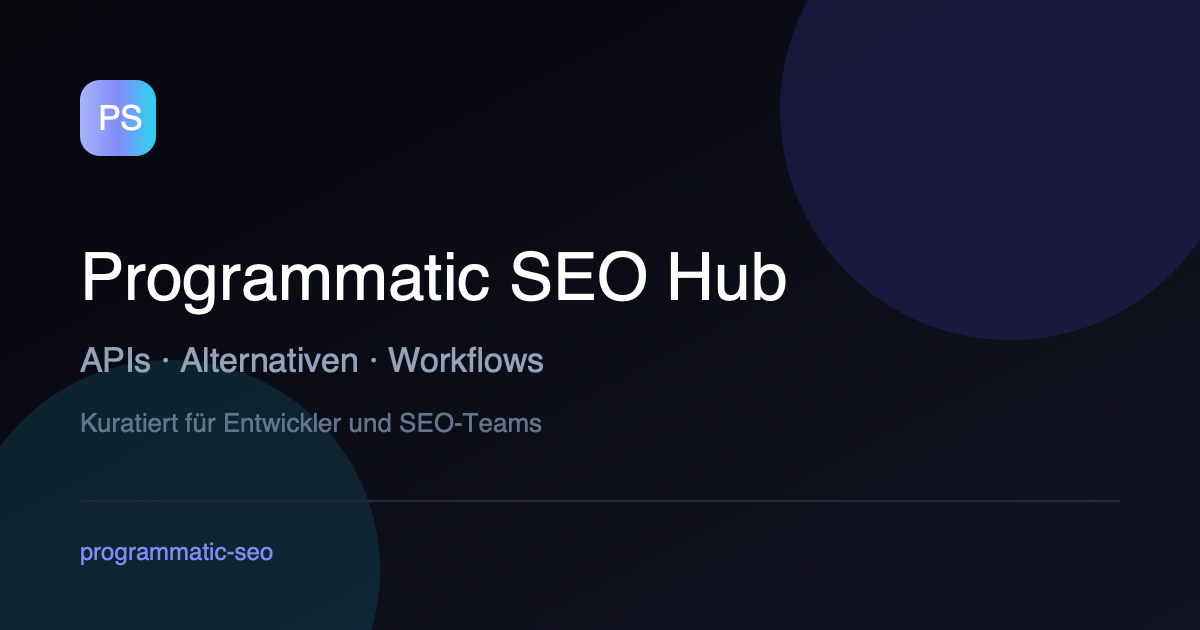
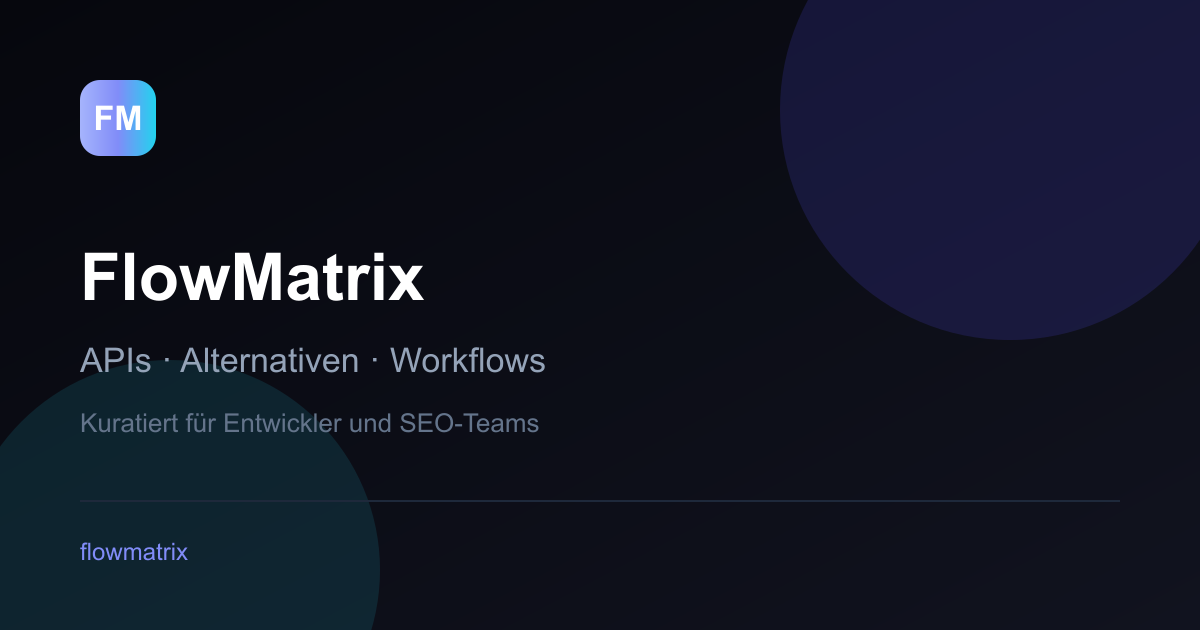
chore: rebrand to FlowMatrix and finalize docs/OG generation

diff --git a/src/i18n/ui.ts b/src/i18n/ui.ts
@@ -66,7 +66,7 @@ export const translations: Record<string, Record<TranslationKey, string>> = {
     "nav.apis": "APIs",
     "nav.alternatives": "Alternatives",
     "nav.workflows": "Workflows",
-    "hero.badge": "Programmatic SEO · curated & current",
+    "hero.badge": "FlowMatrix · curated & current",
     "hero.title1": "The knowledge hub for",
     "hero.title2": "APIs, alternatives and workflows",
     "hero.subtitle":
@@ -106,7 +106,7 @@ export const translations: Record<string, Record<TranslationKey, string>> = {
     "nav.apis": "APIs",
     "nav.alternatives": "Alternativen",
     "nav.workflows": "Workflows",
-    "hero.badge": "Programmatic SEO · kuratiert & aktuell",
+    "hero.badge": "FlowMatrix · kuratiert & aktuell",
     "hero.title1": "Das Wissens-Hub für",
     "hero.title2": "APIs, Alternativen und Workflows",
     "hero.subtitle":
@@ -146,7 +146,7 @@ export const translations: Record<string, Record<TranslationKey, string>> = {
     "nav.apis": "API",
     "nav.alternatives": "Alternatives",
     "nav.workflows": "Workflows",
-    "hero.badge": "Programmatic SEO · sélectionné et à jour",
+    "hero.badge": "FlowMatrix · sélectionné et à jour",
     "hero.title1": "Le hub de connaissances pour",
     "hero.title2": "API, alternatives et workflows",
     "hero.subtitle":
@@ -186,7 +186,7 @@ export const translations: Record<string, Record<TranslationKey, string>> = {
     "nav.apis": "APIs",
     "nav.alternatives": "Alternativas",
     "nav.workflows": "Flujos de trabajo",
-    "hero.badge": "Programmatic SEO · curado y actualizado",
+    "hero.badge": "FlowMatrix · curado y actualizado",
     "hero.title1": "El centro de conocimiento para",
     "hero.title2": "APIs, alternativas y flujos de trabajo",
     "hero.subtitle":
@@ -226,7 +226,7 @@ export const translations: Record<string, Record<TranslationKey, string>> = {
     "nav.apis": "API",
     "nav.alternatives": "Alternative",
     "nav.workflows": "Workflow",
-    "hero.badge": "Programmatic SEO · curato e aggiornato",
+    "hero.badge": "FlowMatrix · curato e aggiornato",
     "hero.title1": "L'hub di conoscenza per",
     "hero.title2": "API, alternative e workflow",
     "hero.subtitle":
@@ -266,7 +266,7 @@ export const translations: Record<string, Record<TranslationKey, string>> = {
     "nav.apis": "APIs",
     "nav.alternatives": "Alternativas",
     "nav.workflows": "Fluxos de trabalho",
-    "hero.badge": "Programmatic SEO · curado e atualizado",
+    "hero.badge": "FlowMatrix · curado e atualizado",
     "hero.title1": "O hub de conhecimento para",
     "hero.title2": "APIs, alternativas e fluxos de trabalho",
     "hero.subtitle":
@@ -306,7 +306,7 @@ export const translations: Record<string, Record<TranslationKey, string>> = {
     "nav.apis": "API's",
     "nav.alternatives": "Alternatieven",
     "nav.workflows": "Workflows",
-    "hero.badge": "Programmatic SEO · gecureerd en actueel",
+    "hero.badge": "FlowMatrix · gecureerd en actueel",
     "hero.title1": "De kennis hub voor",
     "hero.title2": "API's, alternatieven en workflows",
     "hero.subtitle":
@@ -346,7 +346,7 @@ export const translations: Record<string, Record<TranslationKey, string>> = {
     "nav.apis": "API",
     "nav.alternatives": "Alternatywy",
     "nav.workflows": "Workflowy",
-    "hero.badge": "Programmatic SEO · wyselekcjonowane i aktualne",
+    "hero.badge": "FlowMatrix · wyselekcjonowane i aktualne",
     "hero.title1": "Centrum wiedzy o",
     "hero.title2": "API, alternatywach i workflowach",
     "hero.subtitle":
@@ -386,7 +386,7 @@ export const translations: Record<string, Record<TranslationKey, string>> = {
     "nav.apis": "API:er",
     "nav.alternatives": "Alternativ",
     "nav.workflows": "Arbetsflöden",
-    "hero.badge": "Programmatic SEO · kurerat och aktuellt",
+    "hero.badge": "FlowMatrix · kurerat och aktuellt",
     "hero.title1": "Kunskapshubben för",
     "hero.title2": "API:er, alternativ och arbetsflöden",
     "hero.subtitle":
@@ -426,7 +426,7 @@ export const translations: Record<string, Record<TranslationKey, string>> = {
     "nav.apis": "API'ler",
     "nav.alternatives": "Alternatifler",
     "nav.workflows": "İş akışları",
-    "hero.badge": "Programmatic SEO · seçkin ve güncel",
+    "hero.badge": "FlowMatrix · seçkin ve güncel",
     "hero.title1": "Bilgi merkezi:",
     "hero.title2": "API'ler, alternatifler ve iş akışları",
     "hero.subtitle":
@@ -466,7 +466,7 @@ export const translations: Record<string, Record<TranslationKey, string>> = {
     "nav.apis": "API",
     "nav.alternatives": "代替ツール",
     "nav.workflows": "ワークフロー",
-    "hero.badge": "Programmatic SEO · 厳選・最新",
+    "hero.badge": "FlowMatrix · 厳選・最新",
     "hero.title1": "ナレッジハブ：",
     "hero.title2": "API・代替ツール・ワークフロー",
     "hero.subtitle":
@@ -506,7 +506,7 @@ export const translations: Record<string, Record<TranslationKey, string>> = {
     "nav.apis": "API",
     "nav.alternatives": "替代方案",
     "nav.workflows": "工作流",
-    "hero.badge": "Programmatic SEO · 精选且及时",
+    "hero.badge": "FlowMatrix · 精选且及时",
     "hero.title1": "知识中心：",
     "hero.title2": "API、替代方案与工作流",
     "hero.subtitle":

diff --git a/src/lib/site.ts b/src/lib/site.ts
@@ -3,16 +3,15 @@
  * All global SEO/branding values are maintained here.
  */
 export const site = {
-  name: "Programmatic SEO Hub",
-  shortName: "pSEO Hub",
-  // TODO: Set this to the real production domain before going live.
-  url: "https://example.com",
+  name: "FlowMatrix",
+  shortName: "FlowMatrix",
+  url: "https://flowmatrix.com",
   description:
     "Discover APIs, alternatives and workflows – curated for modern developers and SEO teams.",
   lang: "en",
   locale: "en_US",
-  author: "Programmatic SEO Hub",
-  twitter: "@programmaticseo",
+  author: "FlowMatrix",
+  twitter: "@flowmatrix",
   defaultOgImage: "/og-default.png",
 } as const;
 

diff --git a/src/lib/tools.ts b/src/lib/tools.ts
@@ -5,7 +5,7 @@
  * official URLs and optional affiliate URLs. Templates use these helpers
  * to render tools as clean, sponsored links.
  *
- * TODO: Replace the placeholder `?ref=programmatic-seo` parameters with
+ * TODO: Replace the placeholder `?ref=flowmatrix` parameters with
  * your real affiliate parameters.
  */
 export interface ToolConfig {
@@ -15,7 +15,7 @@ export interface ToolConfig {
   sponsored?: boolean;
 }
 
-const REF = "?ref=programmatic-seo";
+const REF = "?ref=flowmatrix";
 
 export const tools: Record<string, ToolConfig> = {
   "OpenAI API": {

diff --git a/README.md b/README.md
@@ -1,6 +1,6 @@
-# Programmatic SEO Hub
+# FlowMatrix
 
-Ein modernes **Astro + Tailwind CSS**-Projekt für Programmatic SEO mit drei dynamischen Routen-Kategorien und einem dunklen, responsiven UI.
+Ein modernes **Astro + Tailwind CSS**-Projekt für Programmatic SEO mit drei dynamischen Routen-Kategorien, Mehrsprachigkeit und einem dunklen, responsiven UI.
 
 ## Features
 
@@ -8,9 +8,11 @@ Ein modernes **Astro + Tailwind CSS**-Projekt für Programmatic SEO mit drei dyn
 - 🎨 **Tailwind CSS 4** über die offizielle Vite-Integration
 - 🌙 **Dark Mode** als Standard-Design
 - 🧭 Drei dynamische Routen: **APIs**, **Alternativen**, **Workflows**
-- 🔍 SEO-freundlich: Canonical-URLs, Open-Graph- und Twitter-Meta-Tags
+- 🌍 **12 Sprachen** (`en`, `de`, `fr`, `es`, `it`, `pt`, `nl`, `pl`, `sv`, `tr`, `ja`, `zh`) mit lokalisierten Routen
+- 🔍 SEO-freundlich: Canonical-URLs, Open-Graph-/Twitter-Meta-Tags, JSON-LD, Sitemap und `robots.txt`
+- 🖼 Automatisch generiertes Open-Graph-Bild aus SVG (`sharp`)
 - 📱 Vollständig responsives Layout
-- 🧩 Wiederverwendbare Komponenten (`Layout`, `Header`, `Footer`, `ContentCard`, `CategoryCard`, `Badge`, `PageHeader`)
+- 🧩 Wiederverwendbare Komponenten (`Layout`, `Header`, `Footer`, `ContentCard`, `CategoryCard`, `Badge`, `PageHeader`, `Breadcrumb`, `CTA`, `DetailBox`, `LanguageSwitcher`)
 
 ## Projektstruktur
 
@@ -18,56 +20,82 @@ Ein modernes **Astro + Tailwind CSS**-Projekt für Programmatic SEO mit drei dyn
 programmatic-seo/
 ├── astro.config.mjs
 ├── package.json
+├── wrangler.toml
 ├── public/
+│   ├── favicon.svg
+│   ├── og-default.svg
+│   └── og-default.png
+├── scripts/
+│   ├── generate-og.mjs      # SVG -> PNG für Open Graph
+│   └── validate-data.js     # prüft Datendateien und Slugs
 └── src/
     ├── components/
-    │   ├── Badge.astro
-    │   ├── CategoryCard.astro
-    │   ├── ContentCard.astro
-    │   ├── Footer.astro
-    │   ├── Header.astro
-    │   └── PageHeader.astro
     ├── data/
-    │   ├── apis.ts
-    │   ├── alternativen.ts
-    │   └── workflows.ts
+    │   ├── apis.json
+    │   ├── alternatives.json
+    │   └── workflows.json
+    ├── i18n/
+    │   ├── content.ts
+    │   ├── ui.ts
+    │   └── utils.ts
     ├── layouts/
     │   └── Layout.astro
+    ├── lib/
+    │   ├── content.ts
+    │   ├── schema.ts
+    │   ├── site.ts
+    │   └── tools.ts
     ├── pages/
     │   ├── 404.astro
     │   ├── index.astro
-    │   ├── apis/
+    │   ├── robots.txt.ts
+    │   ├── [lang]/
     │   │   ├── index.astro
-    │   │   └── [slug].astro
-    │   ├── alternativen/
-    │   │   ├── index.astro
-    │   │   └── [slug].astro
-    │   └── workflows/
-    │       ├── index.astro
-    │       └── [slug].astro
+    │   │   ├── imprint.astro
+    │   │   ├── privacy.astro
+    │   │   ├── apis/
+    │   │   ├── alternatives/
+    │   │   └── workflows/
+    │   ├── apis/[...slug].astro
+    │   ├── alternatives/[...slug].astro
+    │   └── workflows/[...slug].astro
     └── styles/
         └── global.css
 ```
 
 ## Befehle
 
-| Befehl            | Beschreibung                                  |
-| ----------------- | --------------------------------------------- |
-| `npm install`     | Abhängigkeiten installieren                   |
-| `npm run dev`     | Dev-Server unter `http://localhost:4321`      |
-| `npm run build`   | Produktions-Build nach `./dist/`              |
-| `npm run preview` | Produktions-Build lokal testen                |
+| Befehl              | Beschreibung                                        |
+| ------------------- | --------------------------------------------------- |
+| `npm install`       | Abhängigkeiten installieren                         |
+| `npm run dev`       | Dev-Server unter `http://localhost:4321`            |
+| `npm run validate`  | Datendateien und Slug-Eindeutigkeit prüfen          |
+| `npm run og:generate` | Open-Graph-PNG aus `public/og-default.svg` erzeugen |
+| `npm run build`     | Produktions-Build nach `./dist/` (inkl. OG-Bild)    |
+| `npm run preview`   | Produktions-Build lokal testen                      |
+| `npm run deploy`    | Build erstellen und auf Cloudflare Pages deployen   |
 
 ## Inhalte erweitern
 
 Die Inhalte liegen zentral in `src/data/`:
 
-- `apis.ts` – Einträge vom Typ `ApiEntry`
-- `alternativen.ts` – Einträge vom Typ `AlternativeEntry`
-- `workflows.ts` – Einträge vom Typ `WorkflowEntry`
+- `apis.json` – API-Einträge
+- `alternatives.json` – Alternativen-Vergleiche
+- `workflows.json` – Workflow-Anleitungen
 
-Neuen Eintrag hinzufügen, `slug` setzen – die dynamische Route (`getStaticPaths`) erzeugt automatisch die passende Seite.
+Neuen Eintrag hinzufügen, eindeutigen `slug` setzen – die dynamischen Routen (`getStaticPaths`) erzeugen automatisch die passenden Seiten für alle Sprachen. Anschließend `npm run validate` ausführen.
 
-## Vor dem Deployment
+Übersetzungen für UI-Texte und redaktionelle Inhalte liegen in `src/i18n/ui.ts` bzw. `src/i18n/content.ts`.
 
-Passe in `astro.config.mjs` die `site`-URL auf deine Produktions-Domain an. Das sorgt für korrekte Canonical-URLs und ist Voraussetzung für eine spätere Sitemap-Integration.
+## Branding & SEO
+
+Globale Werte (Name, Domain, Twitter-Handle, Standard-OG-Bild) werden zentral in `src/lib/site.ts` gepflegt. Die Produktions-Domain steht zusätzlich in `astro.config.mjs` (`site`) und wird für Canonical-URLs und die Sitemap verwendet.
+
+## Deployment
+
+Das Projekt ist für **Cloudflare Pages** vorbereitet (`wrangler.toml`). Nach dem Login via `wrangler login`:
+
+```bash
+npm run deploy:init   # einmalig: Pages-Projekt anlegen
+npm run deploy        # Build + Deployment
+```
